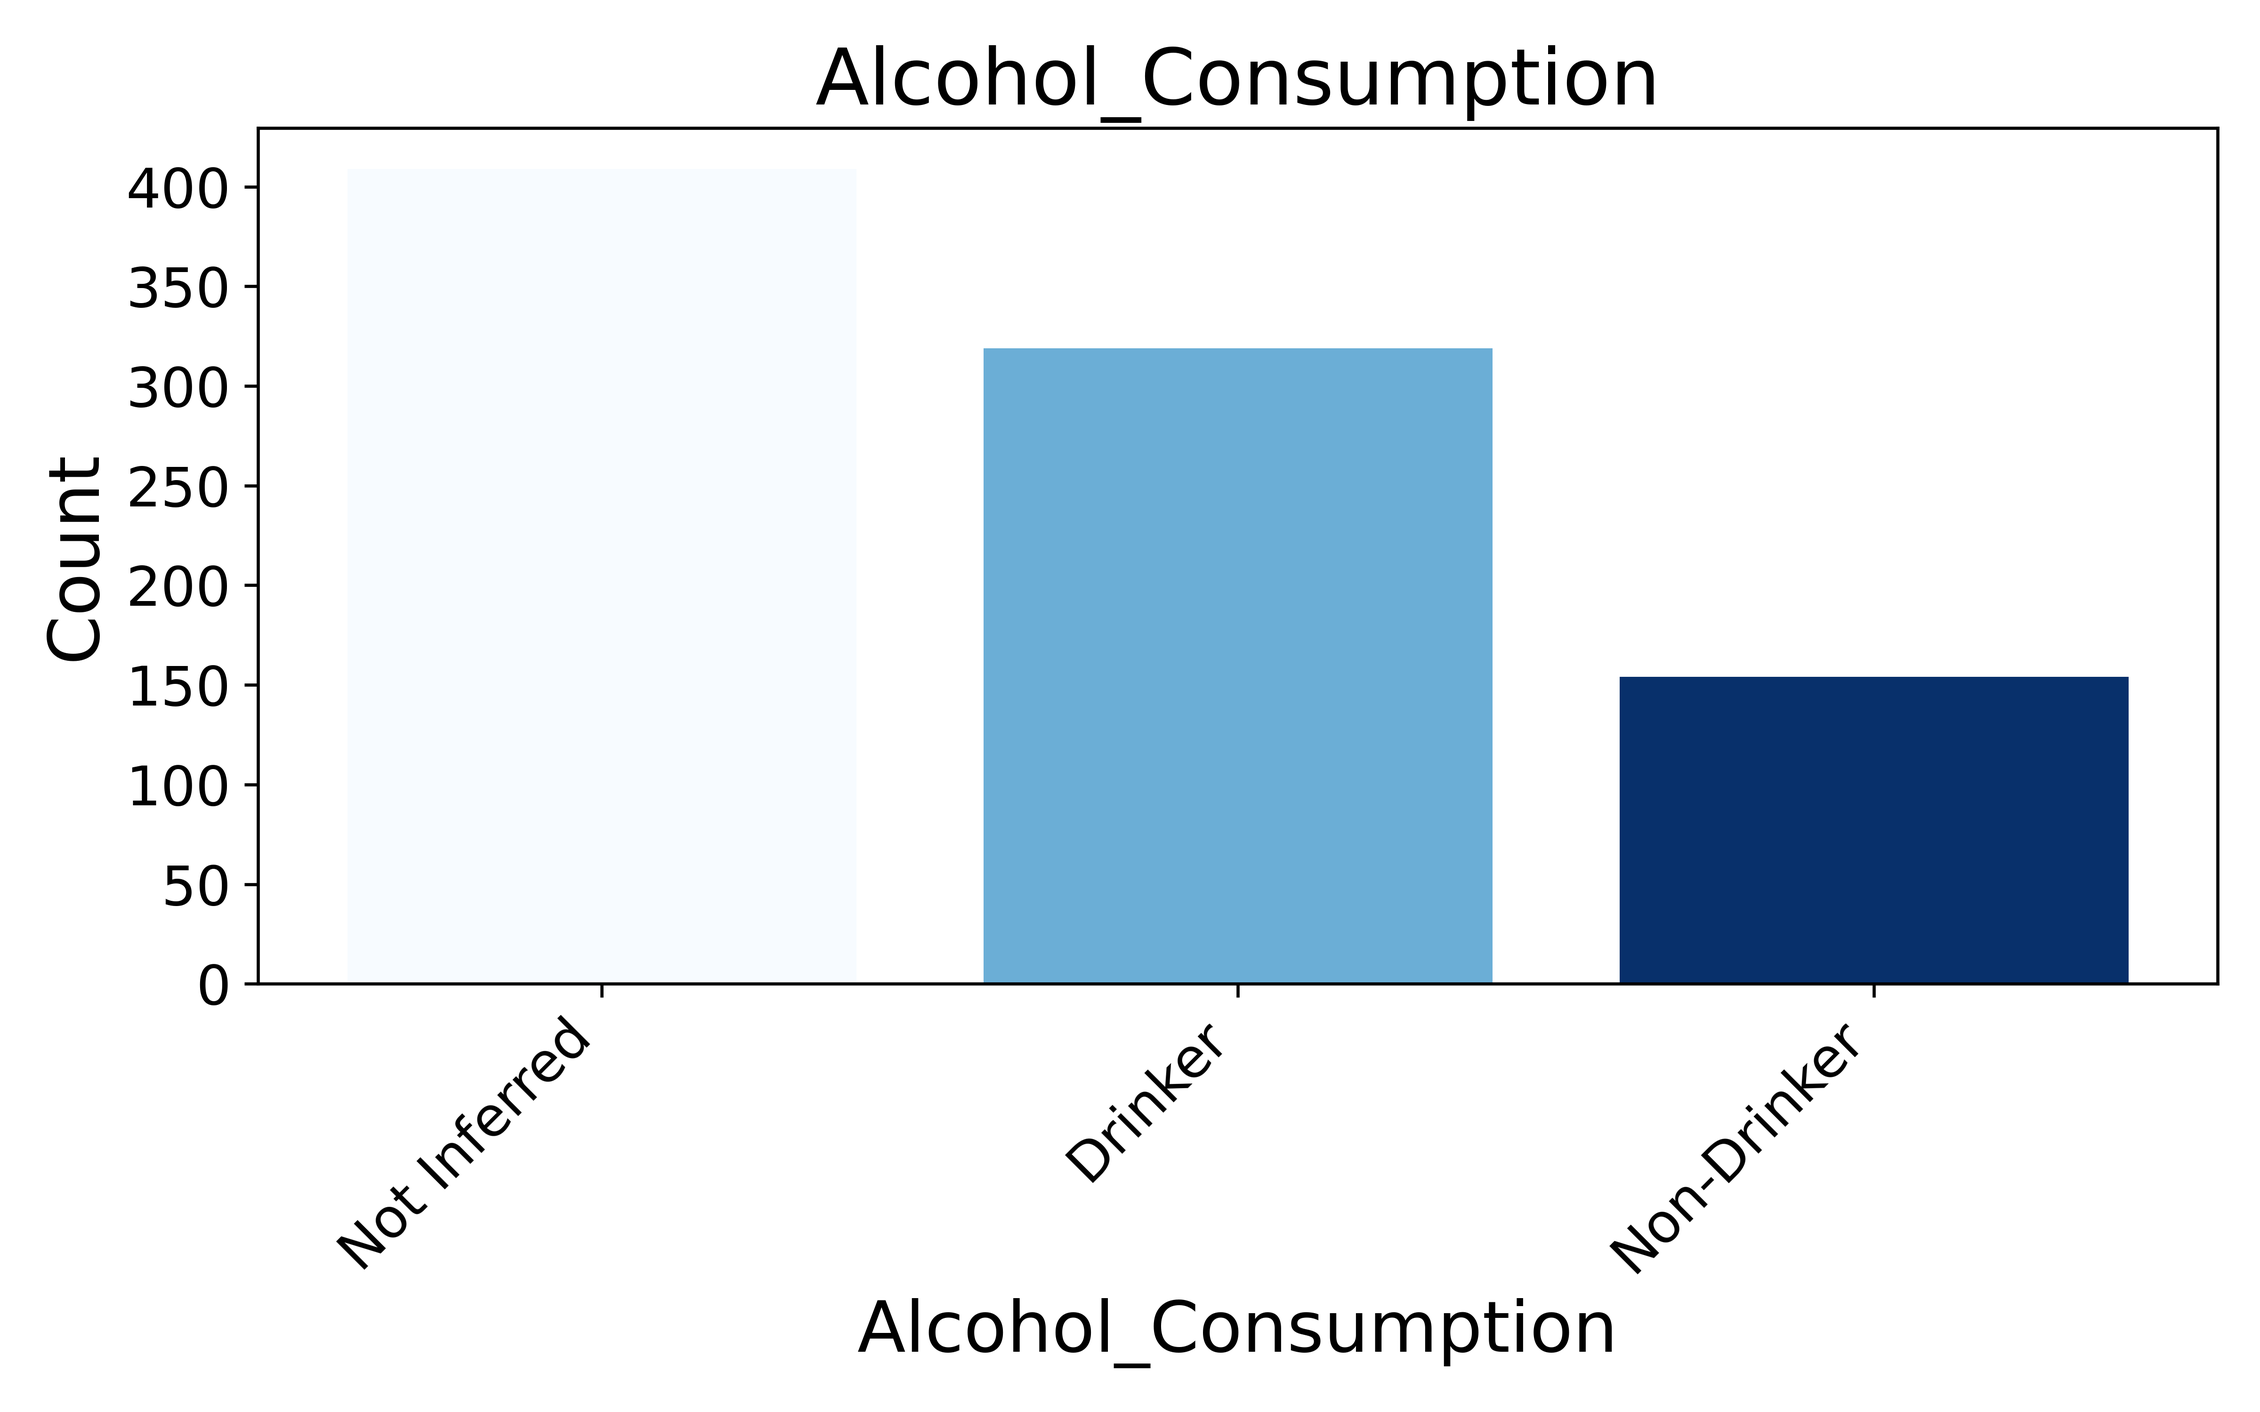
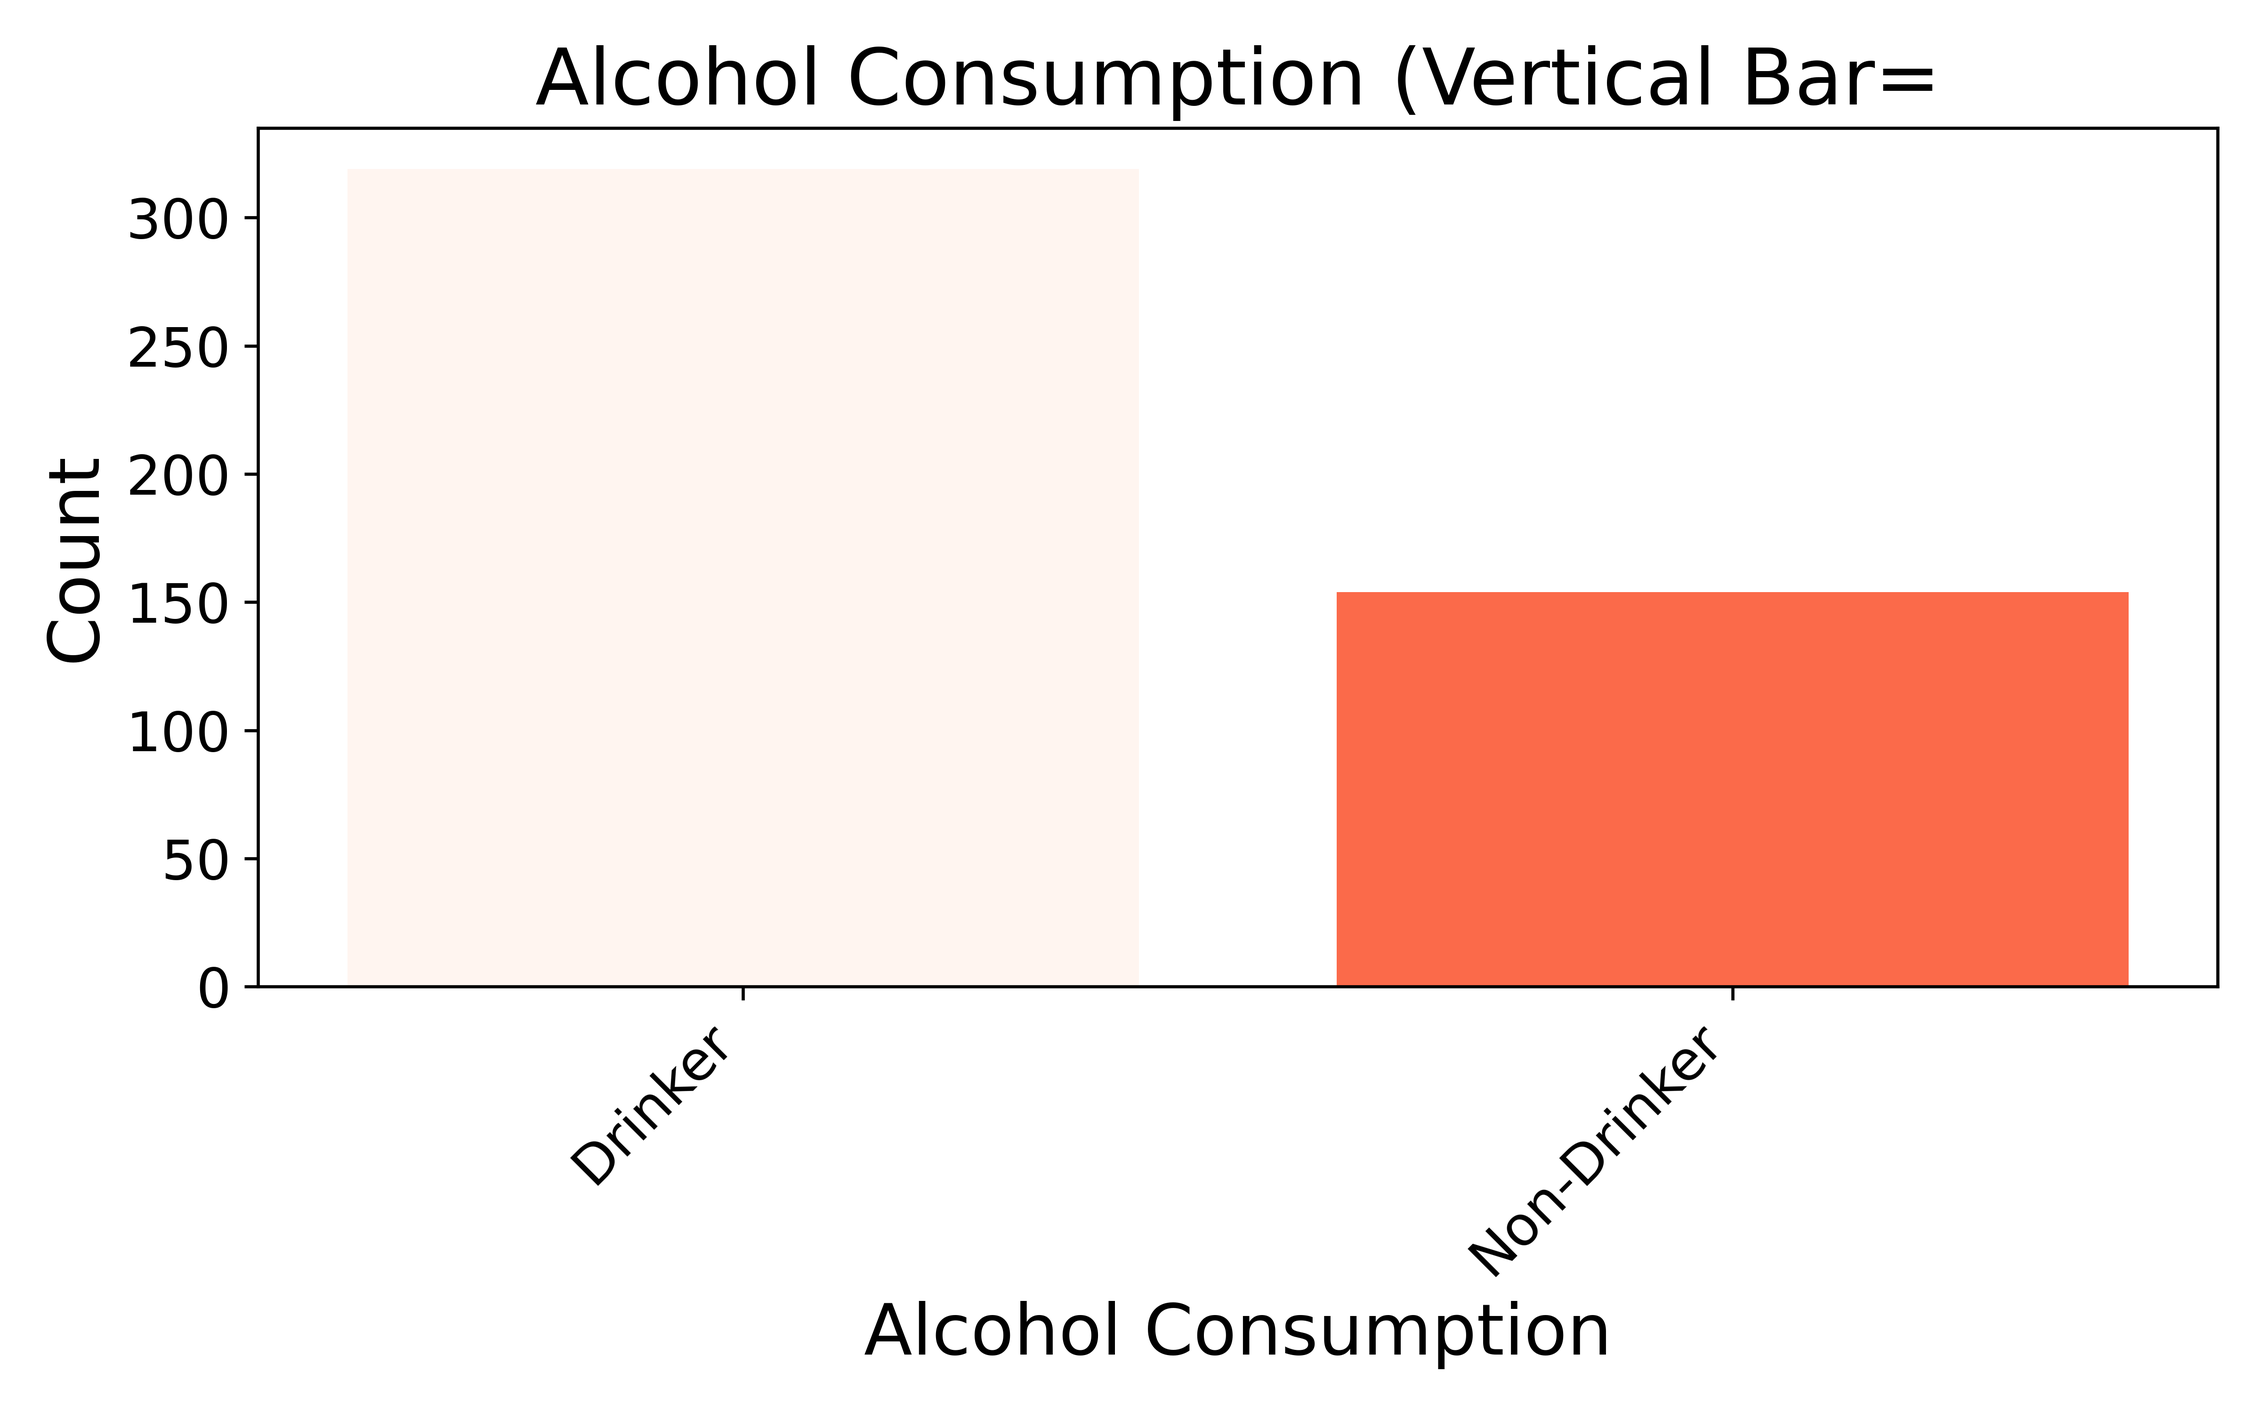
writing

diff --git a/utils/analyze_extracted_fields.py b/utils/analyze_extracted_fields.py
@@ -1,91 +1,109 @@
 #!/usr/bin/env python3
 """
-analyze_extracted_fields.py (Modified)
+analyze_extracted_fields_with_stacked_missing.py
 
-Generates:
-  - Vertical bar plots
-  - Horizontal bar plots
-  - Histograms (for numeric fields)
-with a color gradient, large fonts, and DPI=600. Renames "nan" => "Not Inferred."
+Purpose:
+  1) Creates vertical and horizontal bar plots for categorical fields,
+     excluding "Not Inferred" entries so the main distribution is uncluttered.
+  2) Additionally, for each field we generate a SINGLE "stacked bar" that
+     displays how many rows are Inferred vs Not Inferred (missing).
 
-Particular fields of interest (examples):
-  1) Horizontal bar plot for:
-     - Alcohol_Consumption
-     - ECOG_Performance_Status, Karnofsky_Performance_Status
-     - Lymph_Node_Status_Presence_Absence
-     - Pack_Years
-     - Smoking_History
-  2) Keep original vertical bar plots, too, for some fields
-  3) Histograms for numeric fields (Charlson_Comorbidity_Score, etc.)
-  4) Rename "nan" => "Not Inferred"
+Implementation Details:
+  - Uses integer positions on bars to avoid TypeErrors.
+  - Applies a minimum of 3 discrete color steps so small category sets
+    do not become too faint.
+  - Large fonts, dpi=600.
+  - The "stacked bar" is one bar per field: bottom = count(inferred),
+    stacked portion = count(not_inferred).
 
 Usage:
-  python analyze_extracted_fields.py \
+  python analyze_extracted_fields_with_stacked_missing.py \
     --path_csv "/Data/.../path_fields.csv" \
     --cons_csv "/Data/.../cons_fields.csv" \
     --out_dir  "/Data/.../Structured_Fields_plots/Exp14"
-
-Next steps:
-  - Draw connection between fields and outcomes
 """
 
 import os
 import argparse
 import pandas as pd
 import matplotlib.pyplot as plt
-import numpy as np
 import matplotlib.cm as cm
+import numpy as np
+
+
+###############################################################################
+# 1) Field to Colormap Mapping
+###############################################################################
+FIELD_COLORMAP = {
+    "Alcohol_Consumption":          "Reds",
+    "Smoking_History":              "Reds",
+    "ECOG_Performance_Status":      "Greens",
+    "Karnofsky_Performance_Status": "Greens",
+    "Lymph_Node_Status_Presence_Absence": "Purples",
+    # Fields not in this dict default to "Blues"
+}
+
+###############################################################################
+# 2) Utility Functions
+###############################################################################
+def pretty_name(field_name):
+    """
+    Replace underscores with spaces for nicer plot titles/labels.
+    E.g., "ECOG_Performance_Status" => "ECOG Performance Status"
+    """
+    return field_name.replace("_", " ")
+
+def get_colormap_for_field(field_name):
+    """Return the colormap string for the given field; default = 'Blues'."""
+    return FIELD_COLORMAP.get(field_name, "Blues")
 
 def get_color_list(n, cmap_name="Blues"):
     """
-    Create a list of n distinct colors from the given colormap.
+    Create a list of 'n' distinct colors from the given colormap.
+    We set a minimum of 3 discrete steps so that if n is small,
+    we don't end up with extremely faint bars.
     """
-    # For a categorical palette, sample the colormap in n discrete steps.
-    cmap = cm.get_cmap(cmap_name, n)
-    return [cmap(i) for i in range(n)]
+    n_use = max(n, 3)
+    cmap = cm.get_cmap(cmap_name, n_use)
+    return [cmap(i) for i in range(n_use)]
 
-def rename_nan_to_inferred(series):
+def exclude_not_inferred(series):
     """
-    Replaces any 'nan' string (case-insensitive) with "Not Inferred"
-    in the index (for bar plots) or in the values (for direct Series).
+    Return a filtered series that excludes rows with "Not Inferred" (case-insensitive),
+    and also excludes raw NaN values.
     """
-    cleaned = []
-    for val in series:
-        sval = str(val).strip().lower()
-        if sval == "nan":
-            cleaned.append("Not Inferred")
-        else:
-            cleaned.append(val)
-    return pd.Series(cleaned, index=series.index)
+    if series.isna().all():
+        return series.dropna()
 
+    s_str = series.astype(str).str.strip().str.lower()
+    mask = (s_str != "not inferred") & (s_str != "nan")
+    return series[mask]
+
+###############################################################################
+# 3) Bar Plot Functions (Vertical & Horizontal, excluding "Not Inferred")
+###############################################################################
 def make_bar_plot_vertical(series, field_name, out_dir):
     """
-    Standard (vertical) bar plot with a color gradient. 
-    Also rename 'nan' => 'Not Inferred' in the categories.
+    Vertical bar plot, excluding "Not Inferred".
+    Positions are integer, categories become xticks.
     """
-    # Value counts (including NaN)
-    counts = series.value_counts(dropna=False)
-    # Replace "nan" => "Not Inferred"
-    cleaned_index = []
-    for c in counts.index.astype(str):
-        if c.strip().lower() == "nan":
-            cleaned_index.append("Not Inferred")
-        else:
-            cleaned_index.append(c)
-    counts.index = cleaned_index
+    valid_series = exclude_not_inferred(series)
+    counts = valid_series.value_counts()
+    if counts.empty:
+        return  # no valid data to plot
 
-    # Sort categories by frequency descending (optional)
-    # counts = counts.sort_values(ascending=False)
+    x_positions = range(len(counts))
 
-    # Prepare colors
-    color_list = get_color_list(len(counts))
+    colormap_name = get_colormap_for_field(field_name)
+    color_list = get_color_list(len(counts), colormap_name)
 
     plt.figure(figsize=(8, 5))
-    plt.bar(counts.index, counts.values, color=color_list)
-    plt.title(f"{field_name}", fontsize=20)
-    plt.xlabel(field_name, fontsize=18)
+    plt.bar(x_positions, counts.values, color=color_list, width=0.8)
+    plt.title(f"{pretty_name(field_name)} (Vertical Bar=", fontsize=20)
+    plt.xlabel(pretty_name(field_name), fontsize=18)
     plt.ylabel("Count", fontsize=18)
-    plt.xticks(rotation=45, ha="right", fontsize=14)
+    plt.xticks(x_positions, [str(c) for c in counts.index],
+               rotation=45, ha="right", fontsize=14)
     plt.yticks(fontsize=14)
     plt.tight_layout()
 
@@ -95,64 +113,84 @@ def make_bar_plot_vertical(series, field_name, out_dir):
 
 def make_bar_plot_horizontal(series, field_name, out_dir):
     """
-    Horizontal bar plot with color gradient, rename 'nan' => 'Not Inferred'.
-    The largest category will appear at the top if we sort ascending.
+    Horizontal bar plot, excluding "Not Inferred".
+    Positions are integer, categories become yticks.
+    Sort ascending => largest bar at the top if you prefer.
     """
-    counts = series.value_counts(dropna=False)
-    # rename "nan" => "Not Inferred"
-    cleaned_index = []
-    for c in counts.index.astype(str):
-        if c.strip().lower() == "nan":
-            cleaned_index.append("Not Inferred")
-        else:
-            cleaned_index.append(c)
-    counts.index = cleaned_index
+    valid_series = exclude_not_inferred(series)
+    counts = valid_series.value_counts()
+    if counts.empty:
+        return
 
-    # sort ascending so largest bar is on top
+    # Sort ascending => largest bar on top
     counts = counts.sort_values(ascending=True)
 
-    color_list = get_color_list(len(counts))
+    y_positions = range(len(counts))
+    colormap_name = get_colormap_for_field(field_name)
+    color_list = get_color_list(len(counts), colormap_name)
 
     plt.figure(figsize=(8, 5))
-    plt.barh(counts.index, counts.values, color=color_list)
-    plt.title(f"{field_name}", fontsize=20)
+    plt.barh(y_positions, counts.values, color=color_list)
+    plt.title(f"{pretty_name(field_name)}", fontsize=20)
     plt.xlabel("Count", fontsize=18)
-    plt.ylabel(field_name, fontsize=18)
+    plt.ylabel(pretty_name(field_name), fontsize=18)
     plt.xticks(fontsize=14)
-    plt.yticks(fontsize=14)
+    plt.yticks(y_positions, [str(c) for c in counts.index], fontsize=14)
     plt.tight_layout()
 
     out_path = os.path.join(out_dir, f"{field_name}_bar_horizontal.png")
     plt.savefig(out_path, dpi=600)
     plt.close()
 
-def make_hist_plot(series, field_name, out_dir, bins=10):
+###############################################################################
+# 4) Single "Stacked" Bar for each field, showing Inferred vs Not Inferred
+###############################################################################
+def make_single_stacked_bar_inferred(series, field_name, out_dir):
     """
-    Histogram for numeric distribution. 
-    Force integer ticks if the range is small.
+    Creates a SINGLE stacked bar for the entire field, with two segments:
+      - Inferred Count  = # of rows that are not "Not Inferred"
+      - Not Inferred    = # of rows that are "Not Inferred"
     """
-    numeric_vals = pd.to_numeric(series, errors="coerce").dropna()
+    total_count = len(series)
+    # Convert to string to detect "Not Inferred" ignoring case
+    s_str = series.astype(str).str.strip().str.lower()
+    not_inferred_count = (s_str == "not inferred").sum()
+    inferred_count = total_count - not_inferred_count
 
-    plt.figure(figsize=(8, 5))
-    plt.hist(numeric_vals, bins=bins, color="skyblue", edgecolor="black")
-    plt.title(f"{field_name} Histogram", fontsize=20)
-    plt.xlabel(field_name, fontsize=18)
-    plt.ylabel("Count", fontsize=18)
-    plt.xticks(fontsize=14)
+    # If total_count == 0, do nothing
+    if total_count == 0:
+        return
+
+    # We'll do a single bar at x=0, with 2 segments stacked
+    # We'll color them differently so we can see the difference
+    # e.g. [Inferred, Not Inferred]
+    # colormap for the field
+    colormap_name = get_colormap_for_field(field_name)
+    cmap = cm.get_cmap(colormap_name, 2)  # just 2 steps
+    color_inferred = cmap(0)
+    color_not_inferred = cmap(1)
+
+    plt.figure(figsize=(4, 5))  # narrower figure
+    # bottom segment: inferred_count
+    plt.bar(0, inferred_count, color=color_inferred, label="Inferred")
+    # top segment: not_inferred_count
+    plt.bar(0, not_inferred_count, bottom=inferred_count,
+            color=color_not_inferred, label="Not Inferred")
+
+    plt.title(f"{pretty_name(field_name)}\nTotal N={total_count}", fontsize=18)
+    plt.xticks([0], [""])
     plt.yticks(fontsize=14)
-
-    # If the data are small integer range, force integer ticks
-    if len(numeric_vals) > 0:
-        min_val, max_val = int(numeric_vals.min()), int(numeric_vals.max())
-        # If the range is not huge, set integer ticks
-        if max_val - min_val < 15:
-            plt.xticks(range(min_val, max_val + 1))
+    plt.ylabel("Count", fontsize=16)
+    plt.legend(fontsize=12)
 
     plt.tight_layout()
-    out_path = os.path.join(out_dir, f"{field_name}_hist.png")
+    out_path = os.path.join(out_dir, f"{field_name}_stacked_inferred_bar.png")
     plt.savefig(out_path, dpi=600)
     plt.close()
 
+###############################################################################
+# 5) Main script
+###############################################################################
 def main():
     parser = argparse.ArgumentParser()
     parser.add_argument("--path_csv", required=True, help="path_fields.csv file path")
@@ -166,70 +204,58 @@ def main():
     df_path = pd.read_csv(args.path_csv)
     df_cons = pd.read_csv(args.cons_csv)
 
-    # Example fields
-    # 1) Horizontal bar for: Alcohol_Consumption, ECOG_Performance_Status, Karnofsky_Performance_Status,
-    #    Lymph_Node_Status_Presence_Absence, Pack_Years, Smoking_History
-    # 2) Keep original vertical bar plots, too, for certain fields
-    # 3) Hist for numeric fields
-
-    # Let's define the fields:
+    # Example fields for demonstration
     horizontal_bar_fields = [
         "Alcohol_Consumption",
         "ECOG_Performance_Status",
         "Karnofsky_Performance_Status",
         "Lymph_Node_Status_Presence_Absence",
-        "Pack_Years",
         "Smoking_History",
+        "p16_Status",
+        "Sex"
     ]
-    # We'll also do a vertical bar for these same fields, to "keep the original"
-    vertical_bar_fields = horizontal_bar_fields[:]  # copy
-
-    # Some fields are numeric => we also do a histogram (like Pack_Years, ECOG, etc.)
-    numeric_hist_fields = [
-        "Charlson_Comorbidity_Score",
+    vertical_bar_fields = [
+        "Alcohol_Consumption",
         "ECOG_Performance_Status",
         "Karnofsky_Performance_Status",
-        "Pack_Years",
+        "Lymph_Node_Status_Presence_Absence",
+        "Smoking_History",
+        "p16_Status",
+        "Sex"
     ]
 
-    # Additional small fields that have 2-3 categories: p16_Status, Sex, etc.
-    # We can do a bar plot for those as well:
-    small_cat_fields = ["p16_Status", "Sex"]
-    # We'll do vertical bar for them, plus horizontal if you like
-    # For demonstration, let's do both.
-    horizontal_bar_fields.extend(small_cat_fields)
-    vertical_bar_fields.extend(small_cat_fields)
+    # Merge the sets for iteration
+    all_fields = set(horizontal_bar_fields + vertical_bar_fields)
 
-    # Now produce plots for each field if it exists in either df_path or df_cons
-    # We'll unify them in the sense that if the field is in df_path, we plot from that, else df_cons.
-
-    def plot_field(df, field):
-        if field not in df.columns:
-            return
-
-        # 1) If field is in vertical_bar_fields => do vertical bar
-        if field in vertical_bar_fields:
-            make_bar_plot_vertical(df[field], field, args.out_dir)
-
-        # 2) If field is in horizontal_bar_fields => do horizontal bar
-        if field in horizontal_bar_fields:
-            make_bar_plot_horizontal(df[field], field, args.out_dir)
-
-        # 3) If field is in numeric_hist_fields => do a histogram
-        if field in numeric_hist_fields:
-            make_hist_plot(df[field], field, args.out_dir, bins=10)
-
-    # We'll gather all columns across path/cons in a single list, then handle duplicates
-    all_fields = set(df_path.columns) | set(df_cons.columns)
-
-    for field in sorted(all_fields):
-        # Decide which dataframe to use (some fields might appear in both)
+    # A helper to get a column from path or cons
+    def get_series(field):
         if field in df_path.columns:
-            plot_field(df_path, field)
+            return df_path[field]
         elif field in df_cons.columns:
-            plot_field(df_cons, field)
+            return df_cons[field]
+        else:
+            return None
 
-    print(f"Plots saved to: {args.out_dir}")
+    # For each field, produce vertical/horizontal bar (excluding Not Inferred)
+    # plus the single stacked bar acknowledging Not Inferred
+    for fld in all_fields:
+        coldata = get_series(fld)
+        if coldata is None:
+            continue
+
+        # Vertical
+        if fld in vertical_bar_fields:
+            make_bar_plot_vertical(coldata, fld, args.out_dir)
+
+        # Horizontal
+        if fld in horizontal_bar_fields:
+            make_bar_plot_horizontal(coldata, fld, args.out_dir)
+
+        # Single stacked bar for Inferred vs Not Inferred
+        make_single_stacked_bar_inferred(coldata, fld, args.out_dir)
+
+    print(f"Plots saved to => {args.out_dir}")
+
 
 if __name__ == "__main__":
     main()
